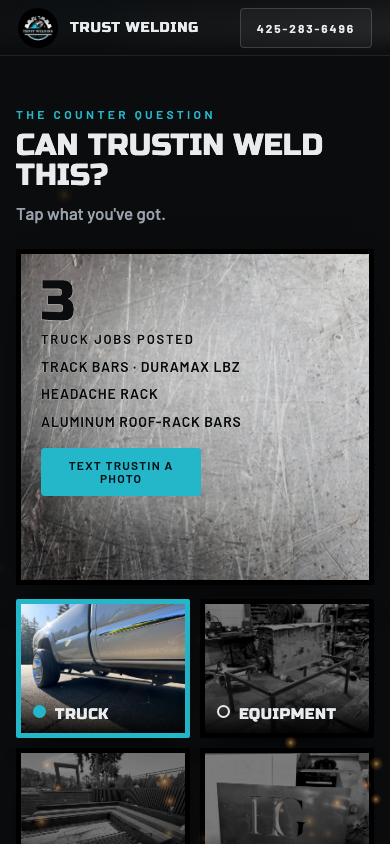
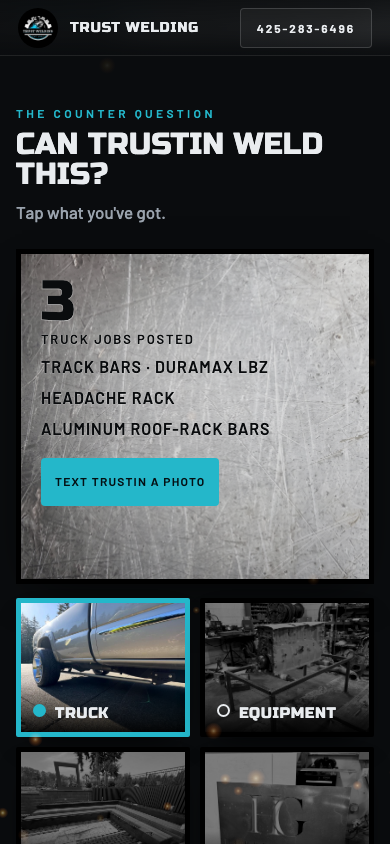
Trust Welding learned pass, after critic round five: the tapped count lands where the 11 sits, names one per line at 16 px, one-line door, track bars back beside the trucks block, the loader photo cut (12 photos, 3 a section), a named heading, the last story step without 'your' four times

diff --git a/trust-welding/learned/index.html b/trust-welding/learned/index.html
@@ -9,11 +9,11 @@
 <meta name="description" content="Trust Welding: custom metal fabrication and mobile welding serving King County. Steel, aluminum and Corten. Call or text 425-283-6496.">
 <link rel="preconnect" href="https://fonts.googleapis.com"><link rel="preconnect" href="https://fonts.gstatic.com" crossorigin>
 <link href="https://fonts.googleapis.com/css2?family=Russo+One&family=Barlow:wght@400;500;600&family=Archivo:wght@600;700&display=swap" rel="stylesheet">
-<link rel="stylesheet" href="css/site3.css?v=1793909798">
-<link rel="stylesheet" href="css/fold-text.css?v=1793909798">
-<link rel="stylesheet" href="css/wtj.css?v=1793909798">
-<link rel="stylesheet" href="css/molten-metal.css?v=1793909798">
-<link rel="stylesheet" href="css/learned.css?v=1793909798">
+<link rel="stylesheet" href="css/site3.css?v=1793911483">
+<link rel="stylesheet" href="css/fold-text.css?v=1793911483">
+<link rel="stylesheet" href="css/wtj.css?v=1793911483">
+<link rel="stylesheet" href="css/molten-metal.css?v=1793911483">
+<link rel="stylesheet" href="css/learned.css?v=1793911483">
 <link rel="icon" href="images/badge.jpg">
 </head>
 <body>
@@ -39,20 +39,19 @@
       <figure><img src="images/work/premier-chiropractic-install.jpg" srcset="images/work/phone/premier-chiropractic-install.jpg 760w, images/work/1080/premier-chiropractic-install.jpg 1080w, images/work/premier-chiropractic-install.jpg 1400w" sizes="(max-width:900px) 90vw, 46vw" width="1290" height="2294" alt="Install · Premier Chiropractic" loading="lazy" decoding="async"><figcaption>Install · Premier Chiropractic</figcaption></figure>
       <figure><img src="images/work/headache-rack.jpg" srcset="images/work/phone/headache-rack.jpg 760w, images/work/1080/headache-rack.jpg 1080w, images/work/headache-rack.jpg 1400w" sizes="(max-width:900px) 90vw, 46vw" width="1400" height="1392" alt="Headache rack" loading="lazy" decoding="async"><figcaption>Headache rack</figcaption></figure>
       <figure><img src="images/work/d-rings-roll-off-bed.jpg" srcset="images/work/phone/d-rings-roll-off-bed.jpg 760w, images/work/1080/d-rings-roll-off-bed.jpg 1080w, images/work/d-rings-roll-off-bed.jpg 1400w" sizes="(max-width:900px) 90vw, 46vw" width="640" height="1136" alt="D-rings · roll-off bed" loading="lazy" decoding="async"><figcaption>D-rings · roll-off bed</figcaption></figure>
+      <figure><img src="images/work/track-bars-3.jpg" srcset="images/work/phone/track-bars-3.jpg 760w, images/work/1080/track-bars-3.jpg 1080w, images/work/track-bars-3.jpg 1400w" sizes="(max-width:900px) 90vw, 46vw" width="1400" height="1866" alt="Track bars · the welds" loading="lazy" decoding="async"><figcaption>Track bars · the welds</figcaption></figure>
       <figure><img src="images/work/aluminum-roof-rack-bars.jpg" srcset="images/work/phone/aluminum-roof-rack-bars.jpg 760w, images/work/1080/aluminum-roof-rack-bars.jpg 1080w, images/work/aluminum-roof-rack-bars.jpg 1400w" sizes="(max-width:900px) 90vw, 46vw" width="1400" height="1866" alt="Aluminum roof-rack bars" loading="lazy" decoding="async"><figcaption>Aluminum roof-rack bars</figcaption></figure>
       <figure><img src="images/work/gantry-lift.jpg" srcset="images/work/phone/gantry-lift.jpg 760w, images/work/1080/gantry-lift.jpg 1080w, images/work/gantry-lift.jpg 1400w" sizes="(max-width:900px) 90vw, 46vw" width="1400" height="1866" alt="Gantry lift" loading="lazy" decoding="async"><figcaption>Gantry lift</figcaption></figure>
-      <figure><img src="images/work/gantry-lift-3.jpg" srcset="images/work/phone/gantry-lift-3.jpg 760w, images/work/1080/gantry-lift-3.jpg 1080w, images/work/gantry-lift-3.jpg 1400w" sizes="(max-width:900px) 90vw, 46vw" width="1400" height="1866" alt="Gantry lift · the frame" loading="lazy" decoding="async"><figcaption>Gantry lift · the frame</figcaption></figure>
       <figure><img src="images/work/corten-fire-pit-2.jpg" srcset="images/work/phone/corten-fire-pit-2.jpg 760w, images/work/1080/corten-fire-pit-2.jpg 1080w, images/work/corten-fire-pit-2.jpg 1400w" sizes="(max-width:900px) 90vw, 46vw" width="1400" height="1054" alt="Corten fire pit · the cladding, close" loading="lazy" decoding="async"><figcaption>Corten fire pit · the cladding, close</figcaption></figure>
       <figure><img src="images/work/steel-planter-boxes.jpg" srcset="images/work/phone/steel-planter-boxes.jpg 760w, images/work/1080/steel-planter-boxes.jpg 1080w, images/work/steel-planter-boxes.jpg 1400w" sizes="(max-width:900px) 90vw, 46vw" width="1400" height="1866" alt="Custom steel planter boxes" loading="lazy" decoding="async"><figcaption>Custom steel planter boxes</figcaption></figure>
       <figure><img src="images/work/mariners-trident-door.jpg" srcset="images/work/phone/mariners-trident-door.jpg 760w, images/work/1080/mariners-trident-door.jpg 1080w, images/work/mariners-trident-door.jpg 1400w" sizes="(max-width:900px) 90vw, 46vw" width="997" height="1144" alt="Trident cut-out · a Seattle cocktail door" loading="lazy" decoding="async"><figcaption>Trident cut-out · a Seattle cocktail door</figcaption></figure>
       <figure><img src="images/work/mariners-trident-2.jpg" srcset="images/work/phone/mariners-trident-2.jpg 760w, images/work/1080/mariners-trident-2.jpg 1080w, images/work/mariners-trident-2.jpg 1400w" sizes="(max-width:900px) 90vw, 46vw" width="1400" height="1606" alt="Trident cut-out · second piece" loading="lazy" decoding="async"><figcaption>Trident cut-out · second piece</figcaption></figure>
       <figure><img src="images/work/gantry-lift-2.jpg" srcset="images/work/phone/gantry-lift-2.jpg 760w, images/work/1080/gantry-lift-2.jpg 1080w, images/work/gantry-lift-2.jpg 1400w" sizes="(max-width:900px) 90vw, 46vw" width="1400" height="1866" alt="Gantry lift · second view" loading="lazy" decoding="async"><figcaption>Gantry lift · second view</figcaption></figure>
-      <figure><img src="images/work/story-highlight-1.jpg" srcset="images/work/phone/story-highlight-1.jpg 760w, images/work/1080/story-highlight-1.jpg 1080w, images/work/story-highlight-1.jpg 1400w" sizes="(max-width:900px) 90vw, 46vw" width="1080" height="1459" alt="From his stories" loading="lazy" decoding="async"><figcaption>From his stories</figcaption></figure>
-      <figure><img src="images/work/track-bars-3.jpg" srcset="images/work/phone/track-bars-3.jpg 760w, images/work/1080/track-bars-3.jpg 1080w, images/work/track-bars-3.jpg 1400w" sizes="(max-width:900px) 90vw, 46vw" width="1400" height="1866" alt="Track bars · the welds" loading="lazy" decoding="async"><figcaption>Track bars · the welds</figcaption></figure>
+      <figure><img src="images/work/gantry-lift-3.jpg" srcset="images/work/phone/gantry-lift-3.jpg 760w, images/work/1080/gantry-lift-3.jpg 1080w, images/work/gantry-lift-3.jpg 1400w" sizes="(max-width:900px) 90vw, 46vw" width="1400" height="1866" alt="Gantry lift · the frame" loading="lazy" decoding="async"><figcaption>Gantry lift · the frame</figcaption></figure>
     </div>
     <aside class="panel" aria-label="About the work">
       <div class="stack">
-        <section class="sec" id="what" aria-label="What he does"><div class="fold"><p class="eyebrow">What he does</p><h2>Trustin builds it, in his shop or at your site</h2><p>Custom pieces built to the job, and mobile welding when the job can’t come to the shop. Steel, aluminum and Corten.</p><ul><li>Custom fabrication: signs, gates, railings, planters, racks, counters, etc.</li><li>Mobile welding across King County</li><li>Structural and equipment repair</li><li>Truck and trailer work: track bars, headache racks, roof racks, D-rings, and more</li></ul></div></section>
+        <section class="sec" id="what" aria-label="What he does"><div class="fold"><p class="eyebrow">What he does</p><h2>The install at Premier Chiropractic. Racks on your truck.</h2><p>Custom pieces built to the job, and mobile welding when the job can’t come to the shop. Steel, aluminum and Corten.</p><ul><li>Custom fabrication: signs, gates, railings, planters, racks, counters, etc.</li><li>Mobile welding across King County</li><li>Structural and equipment repair</li><li>Truck and trailer work: track bars, headache racks, roof racks, D-rings, and more</li></ul></div></section>
         <section class="sec" id="trucks" aria-label="Trucks, trailers and the machines they feed"><div class="fold"><p class="eyebrow">Trucks, trailers and the machines they feed</p><h2>Duramax track bars to a Cat motor mount</h2><p>Track bars for a Duramax, aluminum roof-rack bars, a headache rack, D-rings on a roll-off bed. A motor mount for a Cat rebuild, a gantry lift built from the frame up, equipment repair where the machine sits.</p></div></section>
         <section class="sec" id="outside" aria-label="Outside, and inside for business"><div class="fold"><p class="eyebrow">Outside, and inside for business</p><h2>Corten in Snohomish. A bar for Colibri.</h2><p>A Corten fire pit in Snohomish, custom steel planter boxes, a sign for Hopper Group. The barista bar rail at Colibri Coffee Roasters, a trident cut-out for a Seattle cocktail door, the install at Premier Chiropractic. Built in the shop, set in place on site.</p></div></section>
         <section class="sec" id="why" aria-label="The shop"><div class="fold"><p class="eyebrow">The shop</p><h2>Est. 2025, eleven jobs posted</h2><p>One welder, start to finish. You talk to the person holding the torch. Every photo here is work he posted. Text a photo and a rough size.</p><div class="ways"><a class="btn primary" href="sms:+14252836496">Text 425-283-6496</a><a class="btn" href="#quote">The form</a></div></div></section>
@@ -76,7 +75,7 @@
           <div class="step"><span class="k">The shop</span><p>It went together on the shop floor, Colibri's mark cut clean through the face before it ever left the building.</p></div>
           <div class="step"><span class="k">The site</span><p>Then out to the roastery: the steel rails standing on the gravel where the patio goes, before anyone leans a coffee on them.</p></div>
           <div class="step"><span class="k">Done</span><p>Set in place along the front of the roastery.</p></div>
-          <div class="step"><span class="k">Yours</span><p>Yours is next.</p><div class="ways"><a class="btn primary" href="sms:+14252836496">Text 425-283-6496</a><a class="btn" href="tel:+14252836496">Call</a></div></div>
+          <div class="step"><span class="k">Yours</span><p>Send the photo. He texts back.</p><div class="ways"><a class="btn primary" href="sms:+14252836496">Text 425-283-6496</a><a class="btn" href="tel:+14252836496">Call</a></div></div>
         </div>
         <p class="stamp" aria-hidden="true"><span>Shop</span><span>Site</span><span>Done</span><span>Yours</span></p>
         <div class="ticks" aria-hidden="true"><i class="on"></i><i></i><i></i><i></i></div>
@@ -127,9 +126,9 @@
 </footer>
 <script src="js/vendor/gsap.min.js"></script>
 <script src="js/vendor/ScrollTrigger.min.js"></script>
-<script src="js/vendor/fold-text.js?v=1793909798"></script>
-<script src="js/vendor/wtj/click-spark.js?v=1793909798"></script>
-<script src="js/vendor/wtj/whats-the-job.js?v=1793909798"></script>
+<script src="js/vendor/fold-text.js?v=1793911483"></script>
+<script src="js/vendor/wtj/click-spark.js?v=1793911483"></script>
+<script src="js/vendor/wtj/whats-the-job.js?v=1793911483"></script>
 <script>
 // the panel holds; the section changes every 3 photos (the photo column's scroll progress); every time a section opens its words fold open (React Bits Fold Text, ported: js/vendor/fold-text.js)
 gsap.registerPlugin(ScrollTrigger);
@@ -197,7 +196,7 @@ if (!reduce) {
   requestAnimationFrame(tick);
 })();
 </script>
-<script src="js/learned.js?v=1793909798"></script>
+<script src="js/learned.js?v=1793911483"></script>
 <script>
 // Format panel (Hayden 11/4: "themes or formats… for me to manually adjust and edit"): localhost or ?edit=1; sliders set CSS variables on <html>, remembered in localStorage 'tw-format'; Copy puts the JSON on the clipboard
 if ((location.hostname === 'localhost' || location.search.includes('edit=1')) && !location.search.includes('nofmt')) (function () {

diff --git a/trust-welding/versions/learned.html b/trust-welding/versions/learned.html
@@ -9,11 +9,11 @@
 <meta name="description" content="Trust Welding: custom metal fabrication and mobile welding serving King County. Steel, aluminum and Corten. Call or text 425-283-6496.">
 <link rel="preconnect" href="https://fonts.googleapis.com"><link rel="preconnect" href="https://fonts.gstatic.com" crossorigin>
 <link href="https://fonts.googleapis.com/css2?family=Russo+One&family=Barlow:wght@400;500;600&family=Archivo:wght@600;700&display=swap" rel="stylesheet">
-<link rel="stylesheet" href="css/site3.css?v=1793909798">
-<link rel="stylesheet" href="css/fold-text.css?v=1793909798">
-<link rel="stylesheet" href="css/wtj.css?v=1793909798">
-<link rel="stylesheet" href="css/molten-metal.css?v=1793909798">
-<link rel="stylesheet" href="css/learned.css?v=1793909798">
+<link rel="stylesheet" href="css/site3.css?v=1793911483">
+<link rel="stylesheet" href="css/fold-text.css?v=1793911483">
+<link rel="stylesheet" href="css/wtj.css?v=1793911483">
+<link rel="stylesheet" href="css/molten-metal.css?v=1793911483">
+<link rel="stylesheet" href="css/learned.css?v=1793911483">
 <link rel="icon" href="images/badge.jpg">
 </head>
 <body>
@@ -39,20 +39,19 @@
       <figure><img src="images/work/premier-chiropractic-install.jpg" srcset="images/work/phone/premier-chiropractic-install.jpg 760w, images/work/1080/premier-chiropractic-install.jpg 1080w, images/work/premier-chiropractic-install.jpg 1400w" sizes="(max-width:900px) 90vw, 46vw" width="1290" height="2294" alt="Install · Premier Chiropractic" loading="lazy" decoding="async"><figcaption>Install · Premier Chiropractic</figcaption></figure>
       <figure><img src="images/work/headache-rack.jpg" srcset="images/work/phone/headache-rack.jpg 760w, images/work/1080/headache-rack.jpg 1080w, images/work/headache-rack.jpg 1400w" sizes="(max-width:900px) 90vw, 46vw" width="1400" height="1392" alt="Headache rack" loading="lazy" decoding="async"><figcaption>Headache rack</figcaption></figure>
       <figure><img src="images/work/d-rings-roll-off-bed.jpg" srcset="images/work/phone/d-rings-roll-off-bed.jpg 760w, images/work/1080/d-rings-roll-off-bed.jpg 1080w, images/work/d-rings-roll-off-bed.jpg 1400w" sizes="(max-width:900px) 90vw, 46vw" width="640" height="1136" alt="D-rings · roll-off bed" loading="lazy" decoding="async"><figcaption>D-rings · roll-off bed</figcaption></figure>
+      <figure><img src="images/work/track-bars-3.jpg" srcset="images/work/phone/track-bars-3.jpg 760w, images/work/1080/track-bars-3.jpg 1080w, images/work/track-bars-3.jpg 1400w" sizes="(max-width:900px) 90vw, 46vw" width="1400" height="1866" alt="Track bars · the welds" loading="lazy" decoding="async"><figcaption>Track bars · the welds</figcaption></figure>
       <figure><img src="images/work/aluminum-roof-rack-bars.jpg" srcset="images/work/phone/aluminum-roof-rack-bars.jpg 760w, images/work/1080/aluminum-roof-rack-bars.jpg 1080w, images/work/aluminum-roof-rack-bars.jpg 1400w" sizes="(max-width:900px) 90vw, 46vw" width="1400" height="1866" alt="Aluminum roof-rack bars" loading="lazy" decoding="async"><figcaption>Aluminum roof-rack bars</figcaption></figure>
       <figure><img src="images/work/gantry-lift.jpg" srcset="images/work/phone/gantry-lift.jpg 760w, images/work/1080/gantry-lift.jpg 1080w, images/work/gantry-lift.jpg 1400w" sizes="(max-width:900px) 90vw, 46vw" width="1400" height="1866" alt="Gantry lift" loading="lazy" decoding="async"><figcaption>Gantry lift</figcaption></figure>
-      <figure><img src="images/work/gantry-lift-3.jpg" srcset="images/work/phone/gantry-lift-3.jpg 760w, images/work/1080/gantry-lift-3.jpg 1080w, images/work/gantry-lift-3.jpg 1400w" sizes="(max-width:900px) 90vw, 46vw" width="1400" height="1866" alt="Gantry lift · the frame" loading="lazy" decoding="async"><figcaption>Gantry lift · the frame</figcaption></figure>
       <figure><img src="images/work/corten-fire-pit-2.jpg" srcset="images/work/phone/corten-fire-pit-2.jpg 760w, images/work/1080/corten-fire-pit-2.jpg 1080w, images/work/corten-fire-pit-2.jpg 1400w" sizes="(max-width:900px) 90vw, 46vw" width="1400" height="1054" alt="Corten fire pit · the cladding, close" loading="lazy" decoding="async"><figcaption>Corten fire pit · the cladding, close</figcaption></figure>
       <figure><img src="images/work/steel-planter-boxes.jpg" srcset="images/work/phone/steel-planter-boxes.jpg 760w, images/work/1080/steel-planter-boxes.jpg 1080w, images/work/steel-planter-boxes.jpg 1400w" sizes="(max-width:900px) 90vw, 46vw" width="1400" height="1866" alt="Custom steel planter boxes" loading="lazy" decoding="async"><figcaption>Custom steel planter boxes</figcaption></figure>
       <figure><img src="images/work/mariners-trident-door.jpg" srcset="images/work/phone/mariners-trident-door.jpg 760w, images/work/1080/mariners-trident-door.jpg 1080w, images/work/mariners-trident-door.jpg 1400w" sizes="(max-width:900px) 90vw, 46vw" width="997" height="1144" alt="Trident cut-out · a Seattle cocktail door" loading="lazy" decoding="async"><figcaption>Trident cut-out · a Seattle cocktail door</figcaption></figure>
       <figure><img src="images/work/mariners-trident-2.jpg" srcset="images/work/phone/mariners-trident-2.jpg 760w, images/work/1080/mariners-trident-2.jpg 1080w, images/work/mariners-trident-2.jpg 1400w" sizes="(max-width:900px) 90vw, 46vw" width="1400" height="1606" alt="Trident cut-out · second piece" loading="lazy" decoding="async"><figcaption>Trident cut-out · second piece</figcaption></figure>
       <figure><img src="images/work/gantry-lift-2.jpg" srcset="images/work/phone/gantry-lift-2.jpg 760w, images/work/1080/gantry-lift-2.jpg 1080w, images/work/gantry-lift-2.jpg 1400w" sizes="(max-width:900px) 90vw, 46vw" width="1400" height="1866" alt="Gantry lift · second view" loading="lazy" decoding="async"><figcaption>Gantry lift · second view</figcaption></figure>
-      <figure><img src="images/work/story-highlight-1.jpg" srcset="images/work/phone/story-highlight-1.jpg 760w, images/work/1080/story-highlight-1.jpg 1080w, images/work/story-highlight-1.jpg 1400w" sizes="(max-width:900px) 90vw, 46vw" width="1080" height="1459" alt="From his stories" loading="lazy" decoding="async"><figcaption>From his stories</figcaption></figure>
-      <figure><img src="images/work/track-bars-3.jpg" srcset="images/work/phone/track-bars-3.jpg 760w, images/work/1080/track-bars-3.jpg 1080w, images/work/track-bars-3.jpg 1400w" sizes="(max-width:900px) 90vw, 46vw" width="1400" height="1866" alt="Track bars · the welds" loading="lazy" decoding="async"><figcaption>Track bars · the welds</figcaption></figure>
+      <figure><img src="images/work/gantry-lift-3.jpg" srcset="images/work/phone/gantry-lift-3.jpg 760w, images/work/1080/gantry-lift-3.jpg 1080w, images/work/gantry-lift-3.jpg 1400w" sizes="(max-width:900px) 90vw, 46vw" width="1400" height="1866" alt="Gantry lift · the frame" loading="lazy" decoding="async"><figcaption>Gantry lift · the frame</figcaption></figure>
     </div>
     <aside class="panel" aria-label="About the work">
       <div class="stack">
-        <section class="sec" id="what" aria-label="What he does"><div class="fold"><p class="eyebrow">What he does</p><h2>Trustin builds it, in his shop or at your site</h2><p>Custom pieces built to the job, and mobile welding when the job can’t come to the shop. Steel, aluminum and Corten.</p><ul><li>Custom fabrication: signs, gates, railings, planters, racks, counters, etc.</li><li>Mobile welding across King County</li><li>Structural and equipment repair</li><li>Truck and trailer work: track bars, headache racks, roof racks, D-rings, and more</li></ul></div></section>
+        <section class="sec" id="what" aria-label="What he does"><div class="fold"><p class="eyebrow">What he does</p><h2>The install at Premier Chiropractic. Racks on your truck.</h2><p>Custom pieces built to the job, and mobile welding when the job can’t come to the shop. Steel, aluminum and Corten.</p><ul><li>Custom fabrication: signs, gates, railings, planters, racks, counters, etc.</li><li>Mobile welding across King County</li><li>Structural and equipment repair</li><li>Truck and trailer work: track bars, headache racks, roof racks, D-rings, and more</li></ul></div></section>
         <section class="sec" id="trucks" aria-label="Trucks, trailers and the machines they feed"><div class="fold"><p class="eyebrow">Trucks, trailers and the machines they feed</p><h2>Duramax track bars to a Cat motor mount</h2><p>Track bars for a Duramax, aluminum roof-rack bars, a headache rack, D-rings on a roll-off bed. A motor mount for a Cat rebuild, a gantry lift built from the frame up, equipment repair where the machine sits.</p></div></section>
         <section class="sec" id="outside" aria-label="Outside, and inside for business"><div class="fold"><p class="eyebrow">Outside, and inside for business</p><h2>Corten in Snohomish. A bar for Colibri.</h2><p>A Corten fire pit in Snohomish, custom steel planter boxes, a sign for Hopper Group. The barista bar rail at Colibri Coffee Roasters, a trident cut-out for a Seattle cocktail door, the install at Premier Chiropractic. Built in the shop, set in place on site.</p></div></section>
         <section class="sec" id="why" aria-label="The shop"><div class="fold"><p class="eyebrow">The shop</p><h2>Est. 2025, eleven jobs posted</h2><p>One welder, start to finish. You talk to the person holding the torch. Every photo here is work he posted. Text a photo and a rough size.</p><div class="ways"><a class="btn primary" href="sms:+14252836496">Text 425-283-6496</a><a class="btn" href="#quote">The form</a></div></div></section>
@@ -76,7 +75,7 @@
           <div class="step"><span class="k">The shop</span><p>It went together on the shop floor, Colibri's mark cut clean through the face before it ever left the building.</p></div>
           <div class="step"><span class="k">The site</span><p>Then out to the roastery: the steel rails standing on the gravel where the patio goes, before anyone leans a coffee on them.</p></div>
           <div class="step"><span class="k">Done</span><p>Set in place along the front of the roastery.</p></div>
-          <div class="step"><span class="k">Yours</span><p>Yours is next.</p><div class="ways"><a class="btn primary" href="sms:+14252836496">Text 425-283-6496</a><a class="btn" href="tel:+14252836496">Call</a></div></div>
+          <div class="step"><span class="k">Yours</span><p>Send the photo. He texts back.</p><div class="ways"><a class="btn primary" href="sms:+14252836496">Text 425-283-6496</a><a class="btn" href="tel:+14252836496">Call</a></div></div>
         </div>
         <p class="stamp" aria-hidden="true"><span>Shop</span><span>Site</span><span>Done</span><span>Yours</span></p>
         <div class="ticks" aria-hidden="true"><i class="on"></i><i></i><i></i><i></i></div>
@@ -127,9 +126,9 @@
 </footer>
 <script src="js/vendor/gsap.min.js"></script>
 <script src="js/vendor/ScrollTrigger.min.js"></script>
-<script src="js/vendor/fold-text.js?v=1793909798"></script>
-<script src="js/vendor/wtj/click-spark.js?v=1793909798"></script>
-<script src="js/vendor/wtj/whats-the-job.js?v=1793909798"></script>
+<script src="js/vendor/fold-text.js?v=1793911483"></script>
+<script src="js/vendor/wtj/click-spark.js?v=1793911483"></script>
+<script src="js/vendor/wtj/whats-the-job.js?v=1793911483"></script>
 <script>
 // the panel holds; the section changes every 3 photos (the photo column's scroll progress); every time a section opens its words fold open (React Bits Fold Text, ported: js/vendor/fold-text.js)
 gsap.registerPlugin(ScrollTrigger);
@@ -197,7 +196,7 @@ if (!reduce) {
   requestAnimationFrame(tick);
 })();
 </script>
-<script src="js/learned.js?v=1793909798"></script>
+<script src="js/learned.js?v=1793911483"></script>
 <script>
 // Format panel (Hayden 11/4: "themes or formats… for me to manually adjust and edit"): localhost or ?edit=1; sliders set CSS variables on <html>, remembered in localStorage 'tw-format'; Copy puts the JSON on the clipboard
 if ((location.hostname === 'localhost' || location.search.includes('edit=1')) && !location.search.includes('nofmt')) (function () {

diff --git a/trust-welding/css/learned.css b/trust-welding/css/learned.css
@@ -78,10 +78,12 @@ body.thumb-on{padding-bottom:72px}@media (max-width:900px){body.thumb-on .panel{
 .wtj-idle::before{background:none}
 .wtj-num,.wtj-show{position:relative;z-index:0}
 .wtj-num::before,.wtj-show::before{content:"";position:absolute;inset:-18px -22px;z-index:-1;border-radius:26px;background:radial-gradient(ellipse at 50% 45%,rgba(255,255,255,.64) 0%,rgba(255,255,255,.36) 55%,rgba(255,255,255,0) 100%);filter:blur(20px);pointer-events:none}
-.wtj-show{display:flex;flex-direction:column;justify-content:center;align-items:flex-start;padding:clamp(20px,3vw,44px)}
-.wtj-bar{display:contents}.wtj-count{order:1;margin:0 0 10px}.wtj-photos{order:2;display:flex;flex-wrap:wrap;gap:4px 18px;flex:0 0 auto;margin:0 0 18px}.wtj-text{order:3}
+.wtj-show{position:absolute;inset:0;display:flex;flex-direction:column;justify-content:center;align-items:flex-start;padding:clamp(20px,3vw,44px)}
+.wtj-idle,.wtj-show{justify-content:flex-start;padding:clamp(20px,3vw,44px)}   /* both states start at the same top line, so a tap reads as 11 becoming 3 */
+.wtj-text{max-width:none !important;white-space:nowrap}
+.wtj-bar{display:contents}.wtj-count{order:1;margin:0 0 10px}.wtj-photos{order:2;display:flex;flex-direction:column;gap:3px;flex:0 0 auto;margin:0 0 18px}.wtj-text{order:3}
 .wtj-photos figure.wtj-chip{border:0;background:none;padding:0;box-shadow:none}
-.wtj-photos figure.wtj-chip figcaption{color:#0A0C0E;-webkit-text-stroke:.6px rgba(255,255,255,.6);paint-order:stroke fill;font-size:14px}
+.wtj-photos figure.wtj-chip figcaption{color:#0A0C0E;-webkit-text-stroke:.6px rgba(255,255,255,.6);paint-order:stroke fill;font-size:16px;line-height:1.3}
 .wtj-count b{font:400 clamp(56px,8vw,120px)/1 var(--wtj-display);color:#0A0C0E;-webkit-text-stroke:1.2px rgba(255,255,255,.65);paint-order:stroke fill}
 .wtj-count span{font:600 13px/1.2 var(--wtj-body);letter-spacing:.14em;text-transform:uppercase;color:#0A0C0E;-webkit-text-stroke:.6px rgba(255,255,255,.6);paint-order:stroke fill}
 .wtj-idle .wtj-big{font-size:clamp(56px,8vw,120px)}
